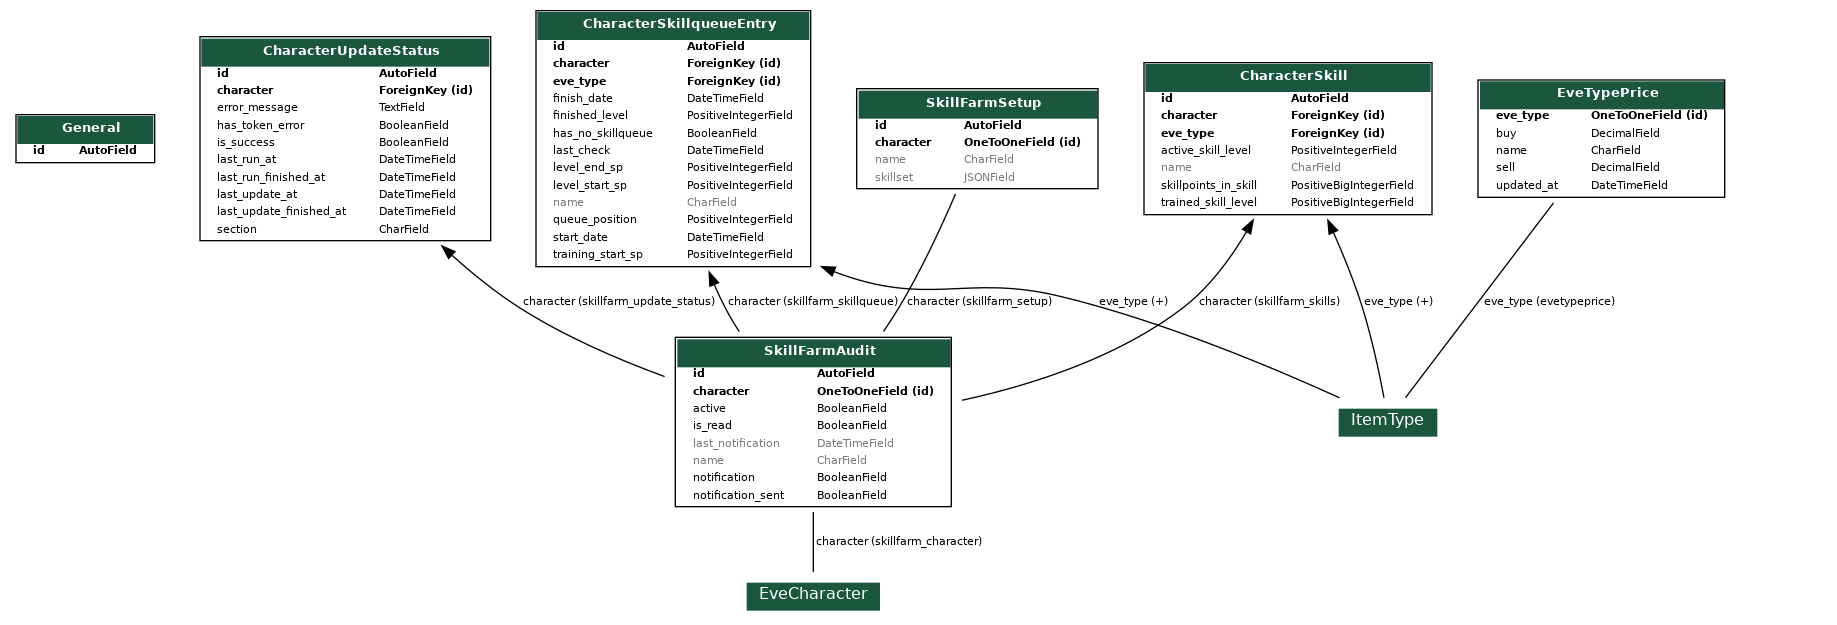
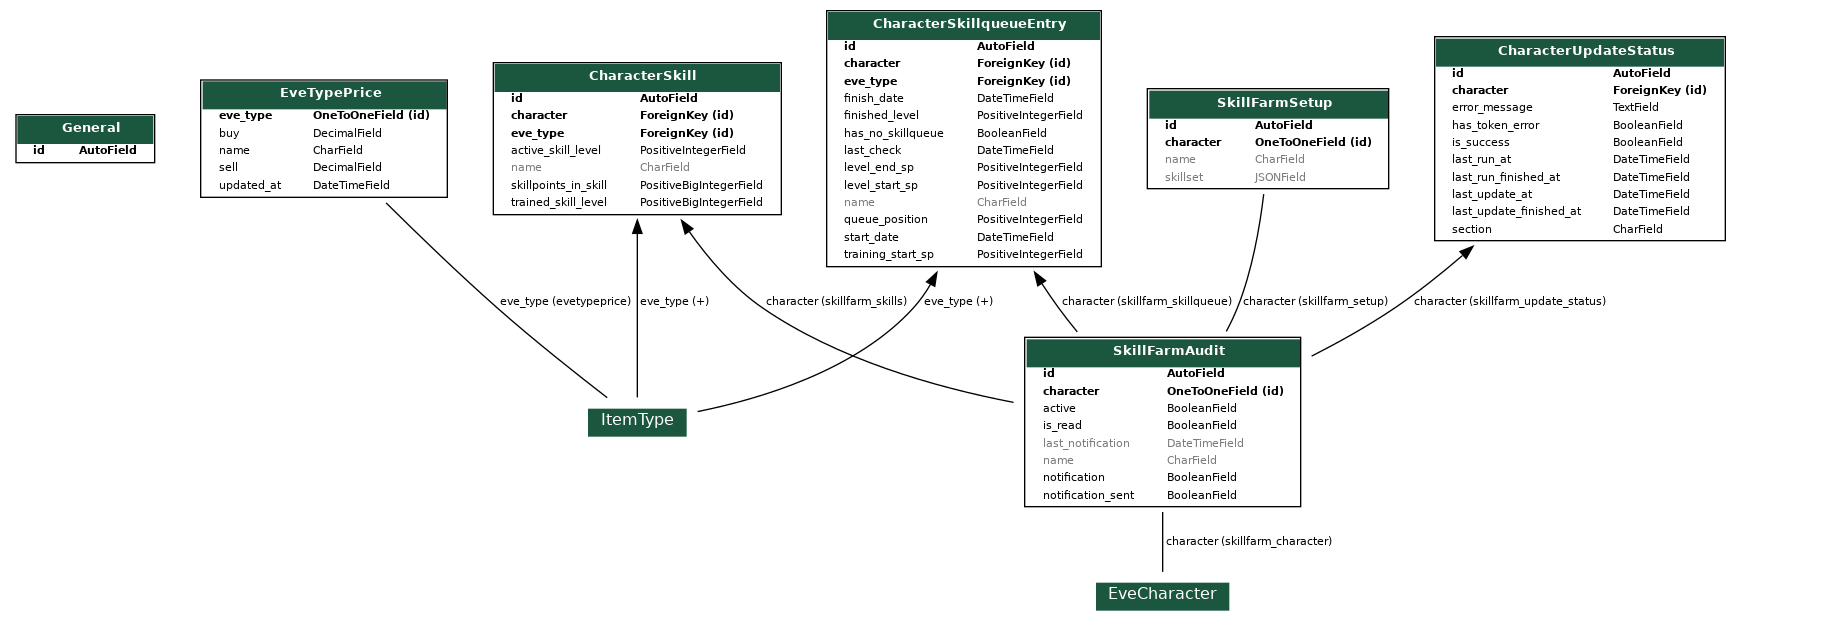
[RELEASE] v2.0.1

diff --git a/skillfarm/__init__.py b/skillfarm/__init__.py
@@ -1,6 +1,6 @@
 """Initialize the app"""
 
-__version__ = "2.0.0"
+__version__ = "2.0.1"
 __title__ = "Skillfarm"
 
 __package_name__ = "aa-skillfarm"

diff --git a/CHANGELOG.md b/CHANGELOG.md
@@ -11,6 +11,8 @@ Section Order:
 ### Removed
 -->
 
+## [2.0.1] - 2026-05-08
+
 ### Added
 
 - Downtime Checker for ESI Tasks
@@ -596,5 +598,5 @@ This will load all necessary prices
 [1.0.4]: https://github.com/Geuthur/aa-skillfarm/compare/v1.0.3...v1.0.4 "1.0.4"
 [1.0.5]: https://github.com/Geuthur/aa-skillfarm/compare/v1.0.4...v1.0.5 "1.0.5"
 [2.0.0]: https://github.com/Geuthur/aa-skillfarm/compare/v1.0.5...v2.0.0 "2.0.0"
-[in development]: https://github.com/Geuthur/aa-skillfarm/compare/v2.0.0...HEAD "In Development"
+[in development]: https://github.com/Geuthur/aa-skillfarm/compare/v2.0.1...HEAD "In Development"
 [report any issues]: https://github.com/Geuthur/aa-skillfarm/issues "report any issues"